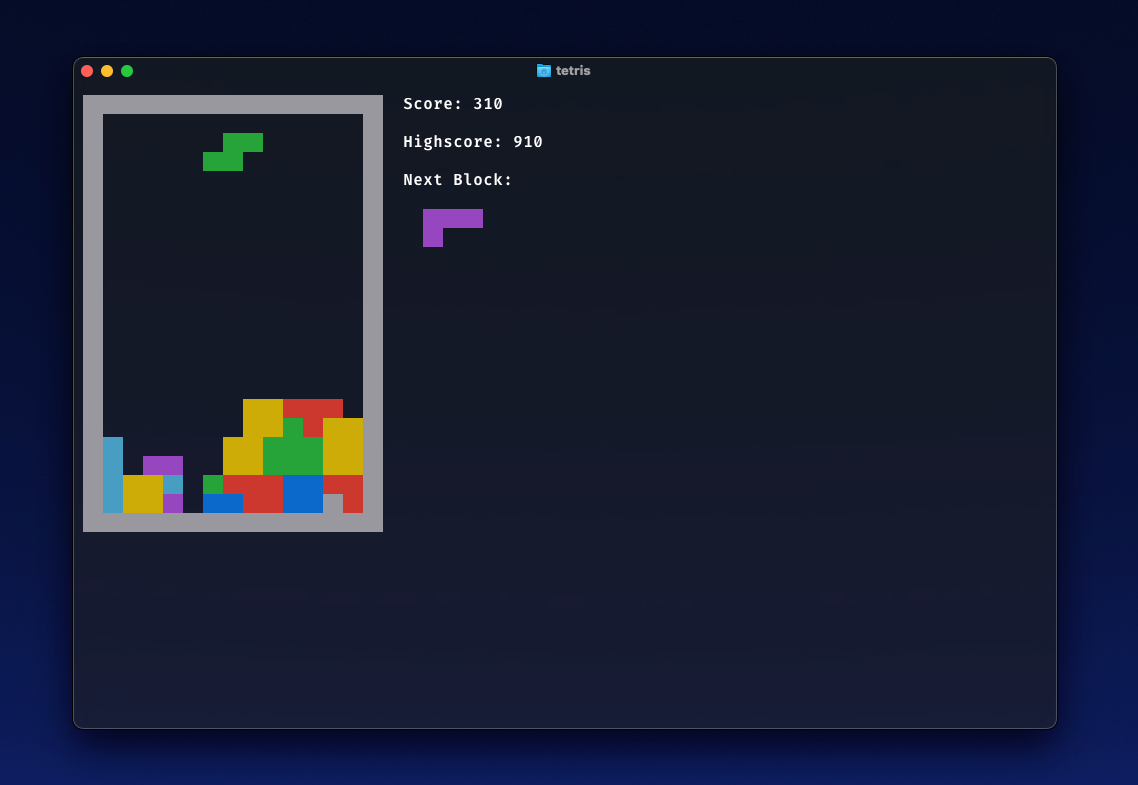
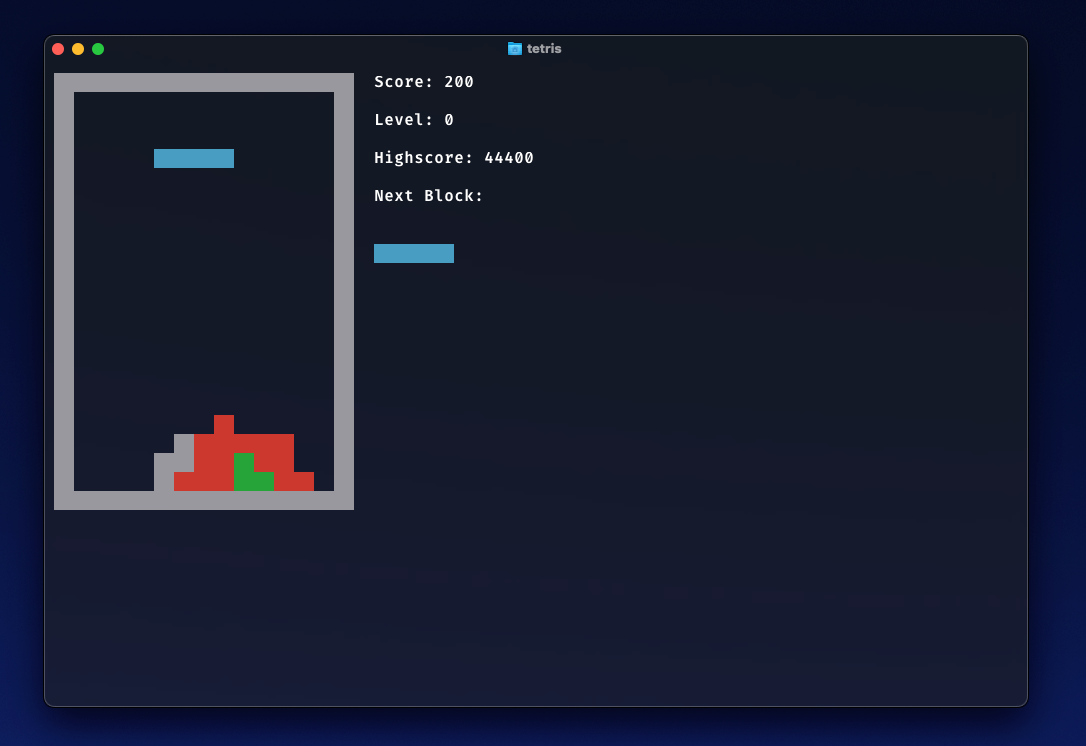
Feature: - reward the player for clearing more than one row at a time - display the current level

Changed region(s): [[0.0304, 0.0308, 0.4862, 0.7091], [0.0304, 0.8633, 0.9724, 0.9866], [0.4558, 0.0308, 0.547, 0.0925]]

diff --git a/main.py b/main.py
@@ -255,6 +255,31 @@ def is_in_bounds(shape: TetrisBlock) -> bool:
     return True
 
 
+# ----- Manage level & points -----
+
+
+def update_points(context: GameContext, num_cleared_rows: int) -> None:
+
+    factor = 0
+
+    match num_cleared_rows:
+        case 1:
+            factor = 1
+        case 2:
+            factor = 3
+        case 3:
+            factor = 5
+        case 4:
+            factor = 8
+
+    context.points += factor * POINTS_PER_FULL_ROW * (context.level + 1)
+
+
+def update_level(context: GameContext, num_cleared_rows: int) -> None:
+    context.cleared_rows += num_cleared_rows
+    context.level = context.cleared_rows // 10
+
+
 # ----- CLI -----
 
 
@@ -302,8 +327,9 @@ def frame(key: int, context: GameContext) -> None:
         # check for full rows and delete them
         num_deleted_rows = clear_full_rows(context.shapes)
 
-        # add points
-        context.points += num_deleted_rows * POINTS_PER_FULL_ROW
+        # add points and level
+        update_points(context, num_deleted_rows)
+        update_level(context, num_deleted_rows)
 
         # add a new shape
         spawn_shape(context)
@@ -313,10 +339,12 @@ def frame(key: int, context: GameContext) -> None:
 
         # if the new shape collides with any existing shape, the game is over
         if intersects_any(context.shapes):
+            context.points = 0
             context.shapes.clear()
             spawn_shape(context)
-            context.points = 0
             context.game_started = False
+            context.level = 0
+            context.cleared_rows = 0
 
 
 def init_colors() -> None:
@@ -362,8 +390,7 @@ def run_game(stdscr, context: GameContext) -> None:
             frame(key, context)
 
             # update frequency is based on the current number of points
-            cleared_rows = context.points // POINTS_PER_FULL_ROW
-            update_frequency = max(0.1, 1.0 - (cleared_rows // 10) * 0.1)
+            update_frequency = max(0.1, 1.0 - (context.cleared_rows // 10) * 0.1)
 
             if time.time() - last_time >= update_frequency:
                 frame(curses.KEY_DOWN, context)
@@ -448,6 +475,10 @@ def draw(stdscr, context: GameContext) -> None:
         # score
         stdscr.addstr(y_offset, BLOCK_WIDTH * (WIDTH + 3), f"Score: {context.points}")
 
+        # level
+        y_offset += 2
+        stdscr.addstr(y_offset, BLOCK_WIDTH * (WIDTH + 3), f"Level: {context.level}")
+
         # paused
         if context.paused:
             y_offset += 2
@@ -489,7 +520,9 @@ def main() -> None:
         game_started = False,
         shapes = [get_new_shape()],
         next_shape = get_new_shape(),
-        highscore = load_stats().get("highscore", 0)
+        highscore = load_stats().get("highscore", 0),
+        level = 0,
+        cleared_rows = 0
     )
 
     try:

diff --git a/constants.py b/constants.py
@@ -9,7 +9,7 @@ HEIGHT = 21
 BLOCK_SYMBOL = "██"
 BLOCK_WIDTH = 2
 
-POINTS_PER_FULL_ROW = 10
+POINTS_PER_FULL_ROW = 100
 
 ARROW_KEYS = [curses.KEY_UP, curses.KEY_DOWN, curses.KEY_LEFT, curses.KEY_RIGHT]
 

diff --git a/custom_types.py b/custom_types.py
@@ -49,3 +49,5 @@ class GameContext:
     shapes: list[TetrisBlock]
     next_shape: TetrisBlock
     highscore: int
+    level: int
+    cleared_rows: int
